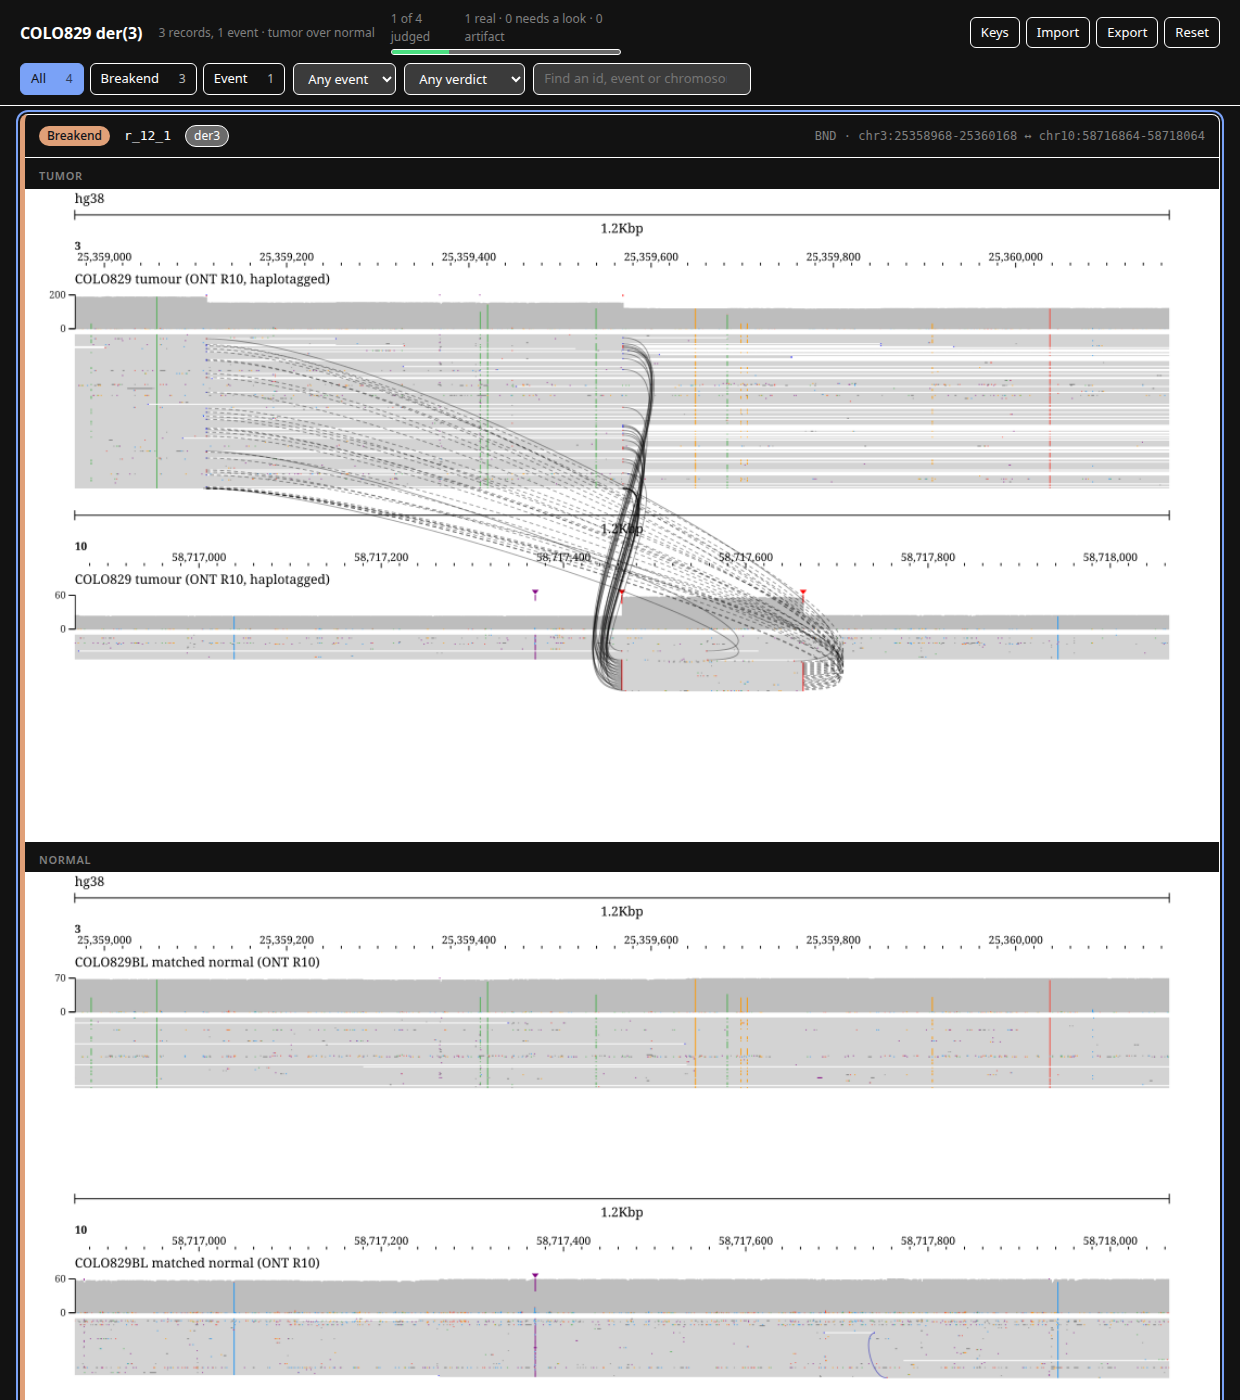
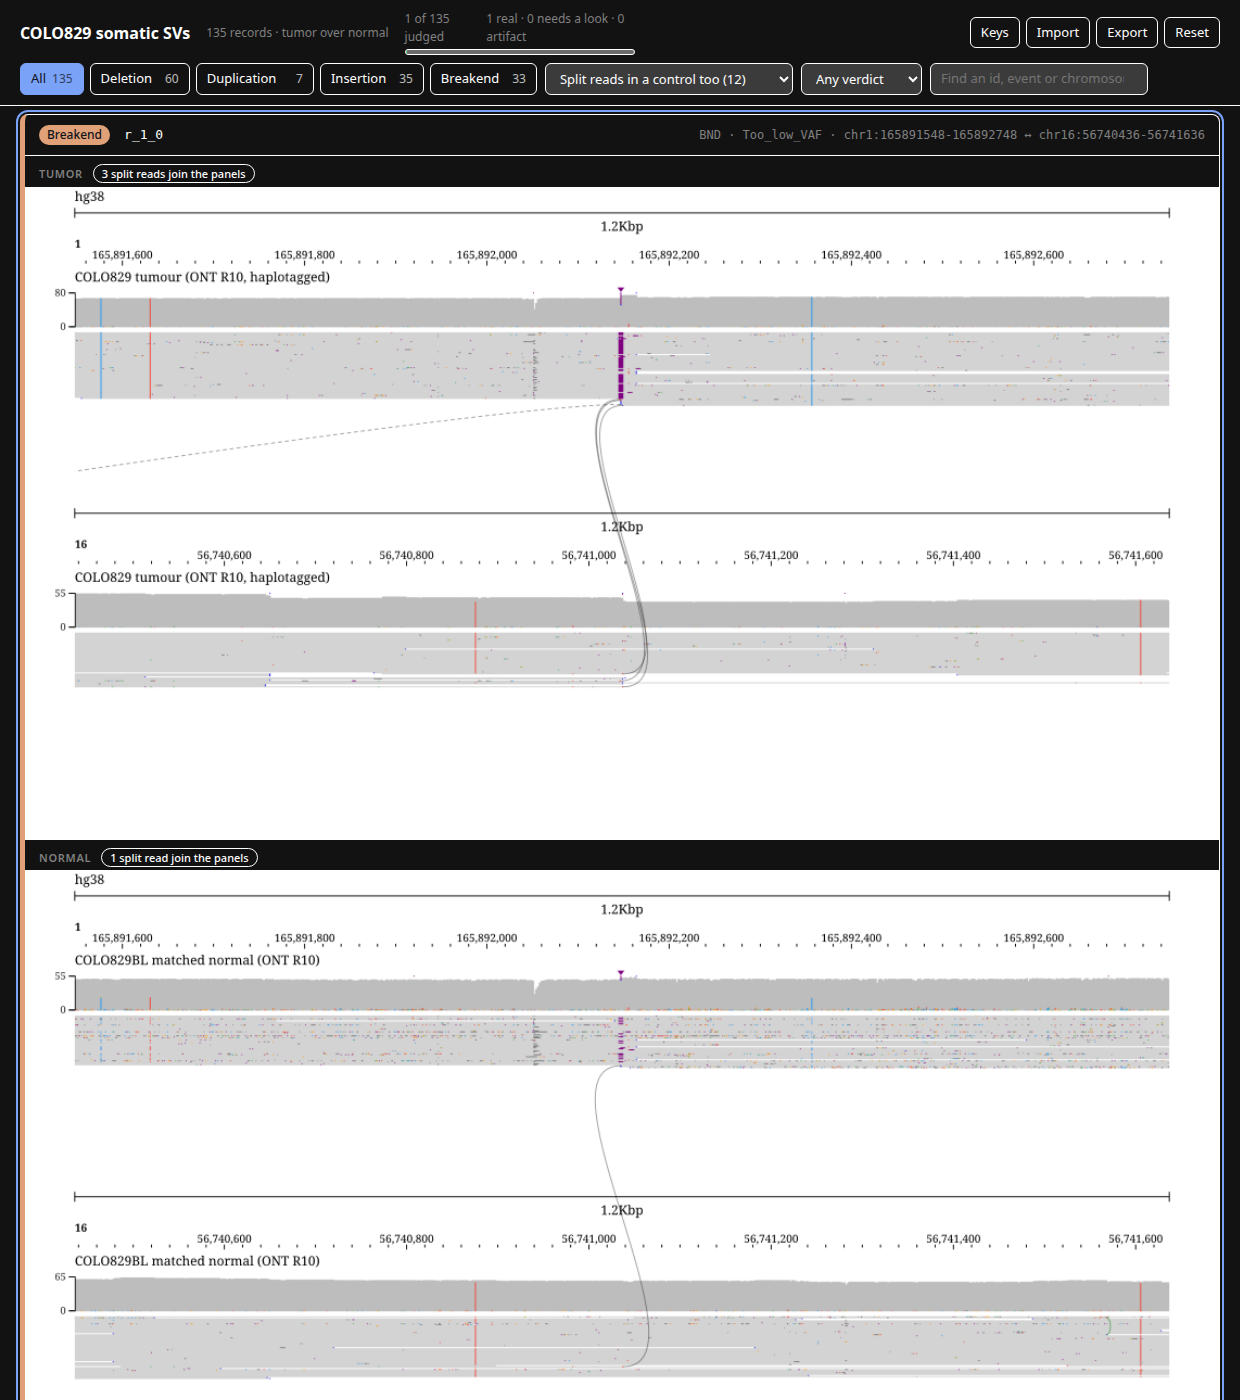
Cards count the split reads joining their panels, and a filter sorts a callset on it
jb2export batch now reports, per image, the split reads with pieces in more than
one panel. Each image says its number, and the support filter splits a callset
three ways: no split read joins the panels, split reads in a control too, split
reads in the sample only. Over COLO829's 82 two-panel records that is 3, 12 and
67.

The first group is where a deletion one alignment carries lands, since a gap is
drawn and no connector, so the groups order a queue and the picture decides a
card.

diff --git a/lib/app.jsx b/lib/app.jsx
@@ -19,6 +19,8 @@ const VERDICT_FILTERS = [
   ...VERDICTS.map(b => [b.v, b.label]),
 ]
 
+const total = links => links.reduce((a, b) => a + b, 0)
+
 function facts(card) {
   if (card.kind === 'event') {
     return [
@@ -80,7 +82,15 @@ const Card = React.memo(function Card({
       </div>
       {card.images.map(img => (
         <figure className="shot-set" key={img.label} data-set={img.label}>
-          <figcaption>{img.label}</figcaption>
+          <figcaption>
+            {img.label}
+            {img.links ? (
+              <span className="links-count" data-zero={!total(img.links)}>
+                {img.links.join(' + ')} split read
+                {total(img.links) === 1 ? '' : 's'} join the panels
+              </span>
+            ) : null}
+          </figcaption>
           {img.src ? (
             <img
               className="shot"
@@ -134,6 +144,7 @@ export function App({ data }) {
   const [keysOpen, setKeysOpen] = useState(false)
   const [cls, setCls] = useState('all')
   const [event, setEvent] = useState('all')
+  const [support, setSupport] = useState('all')
   const [verdictFilter, setVerdictFilter] = useState('all')
   const [q, setQ] = useState('')
   const [cursor, setCursor] = useState(/** @type {string | null} */ (null))
@@ -185,8 +196,8 @@ export function App({ data }) {
   }, [])
 
   const filter = useMemo(
-    () => ({ cls, event, verdictFilter, q }),
-    [cls, event, verdictFilter, q],
+    () => ({ cls, event, support, verdictFilter, q }),
+    [cls, event, support, verdictFilter, q],
   )
   const visible = useMemo(
     () => data.cards.filter(c => matches(c, { ...filter, verdicts })),
@@ -413,6 +424,15 @@ export function App({ data }) {
     [data.cards],
   )
 
+  // in the order a reviewer takes the queue: unsupported first
+  const supports = useMemo(
+    () =>
+      Object.keys(data.support)
+        .map(k => [k, data.cards.filter(c => c.support === k).length])
+        .filter(([, n]) => n),
+    [data.cards, data.support],
+  )
+
   const pct = x => `${data.cards.length ? (x / data.cards.length) * 100 : 0}%`
 
   return (
@@ -520,6 +540,23 @@ export function App({ data }) {
               {events.map(ev => (
                 <option key={ev} value={ev}>
                   {ev}
+                </option>
+              ))}
+            </select>
+          ) : null}
+          {supports.length > 1 ? (
+            <select
+              id="sf"
+              aria-label="Filter by read support"
+              value={support}
+              onChange={e => {
+                setSupport(e.target.value)
+              }}
+            >
+              <option value="all">Any support</option>
+              {supports.map(([k, n]) => (
+                <option key={k} value={k}>
+                  {data.support[k]} ({n})
                 </option>
               ))}
             </select>

diff --git a/lib/template.html b/lib/template.html
@@ -329,6 +329,19 @@
         text-transform: uppercase;
         color: GrayText;
       }
+      .links-count {
+        margin-left: 10px;
+        padding: 1px 8px;
+        border-radius: 999px;
+        border: 1px solid ButtonBorder;
+        font-weight: 500;
+        letter-spacing: 0;
+        text-transform: none;
+        color: CanvasText;
+      }
+      .links-count[data-zero='true'] {
+        color: GrayText;
+      }
       .shot-set .shot {
         margin-top: 4px;
       }

diff --git a/README.md b/README.md
@@ -21,14 +21,15 @@ variant-review-portal --vcf calls.vcf.gz \
 npx serve portal
 ```
 
-![Three junctions of one rearrangement: curves join the tumor's panels and the matched normal has none](docs/review-page-light.png)
+![A somatic callset filtered to the calls whose matched normal carries split reads too: the tumor above, the normal below, each with its count](docs/review-page-light.png)
 
 The page follows the reader's theme:
 
 ![The same page in dark mode](docs/review-page-dark.png)
 
-Both are COLO829's der(3) over the ONT open-data reads; `docs/shoot.mjs`
-rebuilds them from a portal directory.
+Both are the COLO829 somatic callset over the ONT open-data reads, 135 records
+rendered in six minutes for the tumor and fifteen for the matched normal;
+`docs/shoot.mjs` rebuilds them from a portal directory.
 
 ## Install
 
@@ -54,6 +55,13 @@ than 5.0.0-beta.8.
   event visiting more than two loci has a card of its own, every locus in one
   image. JBrowse reads the standard key;
   [Severus's `CLUSTERID` takes a rename](https://jbrowse.org/jb2/docs/user_guides/sv_inspector_view/#rearrangement-events).
+- **Split reads, counted.** `jb2export` reports the split reads joining each
+  image's panels, and every image says its number. The support filter sorts a
+  callset three ways on it: no split read joins the panels, split reads in a
+  control too, split reads in the sample only. A deletion short enough for one
+  alignment to carry draws a gap and no connector, so it lands in the first
+  group with its support in plain sight: the groups order the queue and the
+  picture decides the card.
 - **A link**, given `--jbrowse`, `--config`, `--assembly` and `--tracks`: a
   breakpoint split view over the card's loci, or a linear view over one.
 
